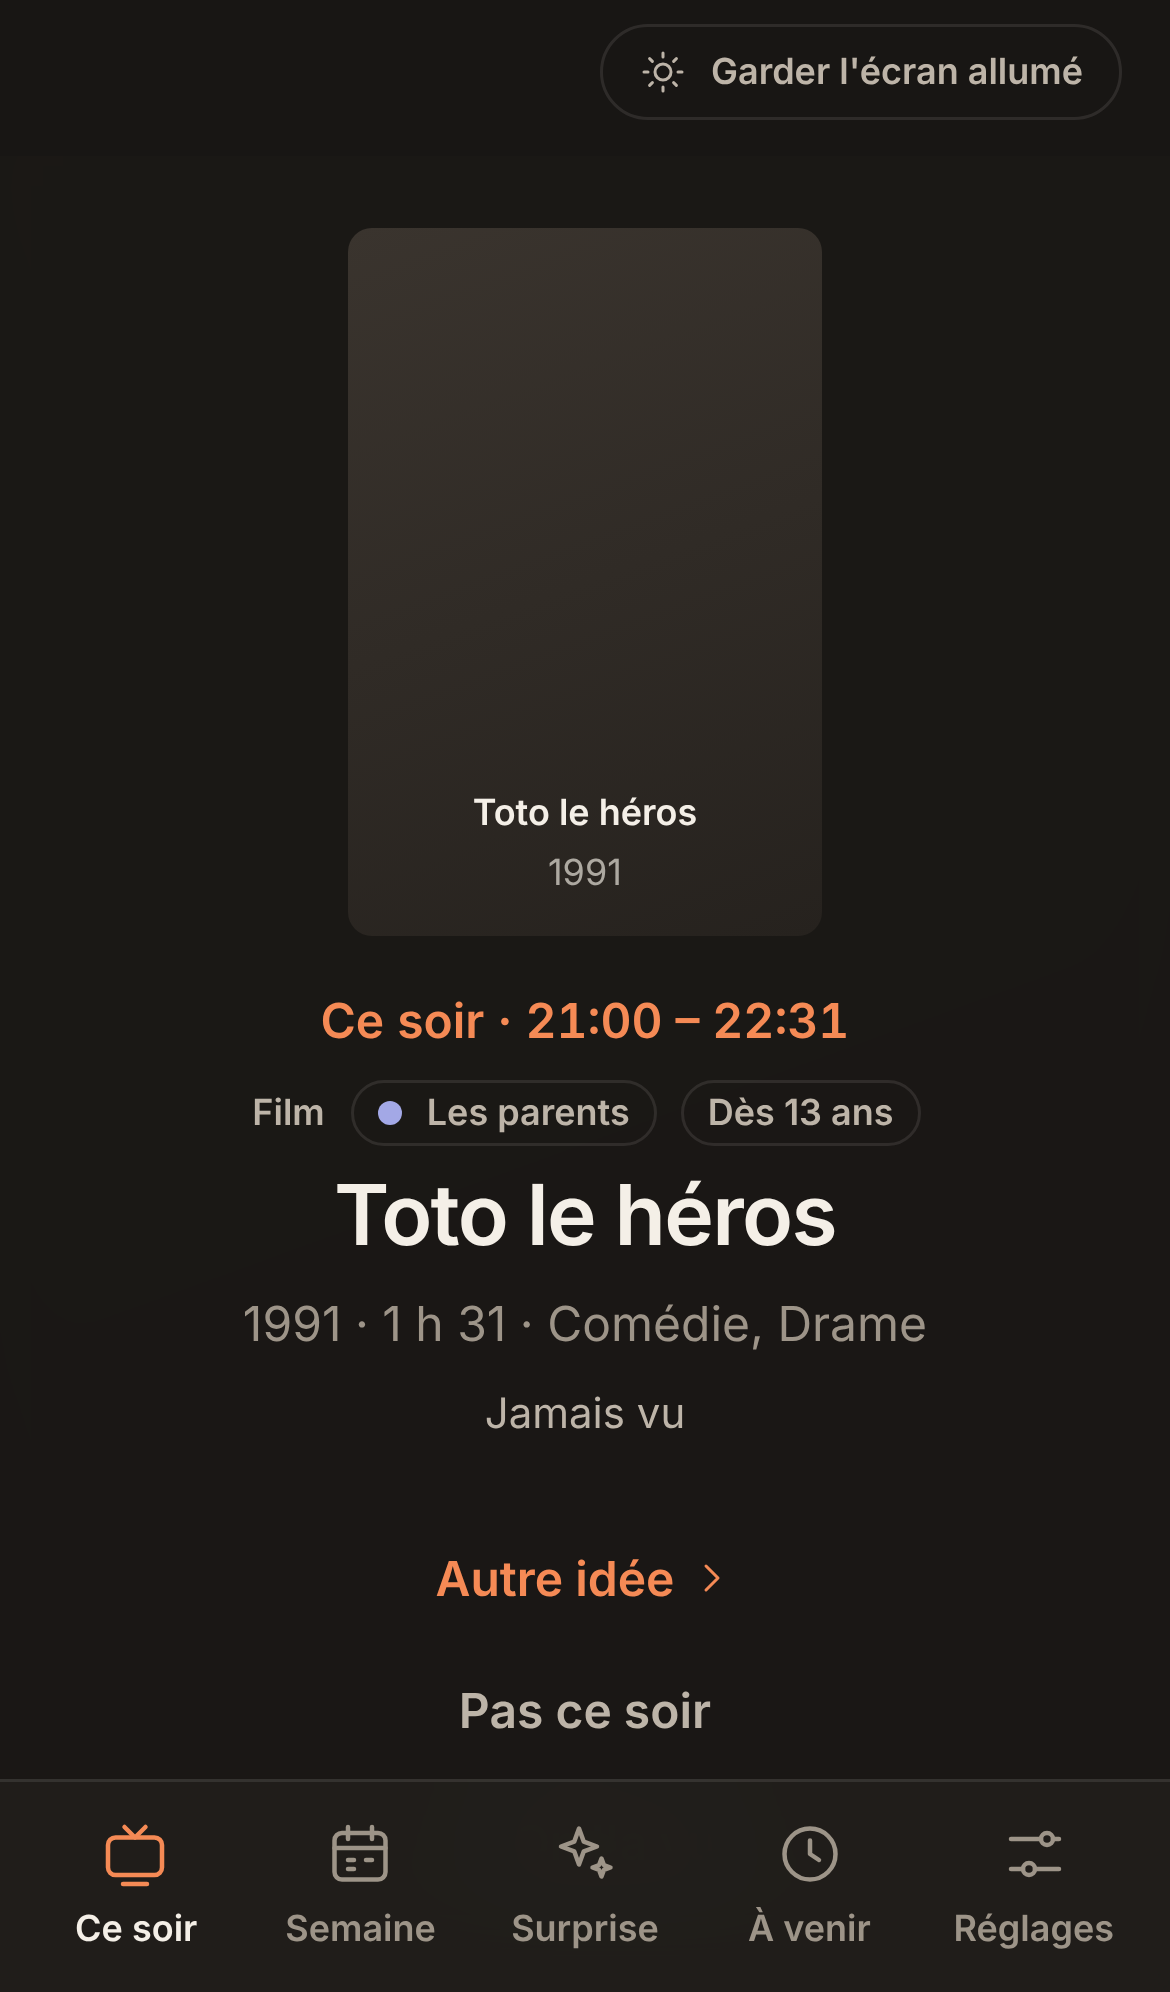
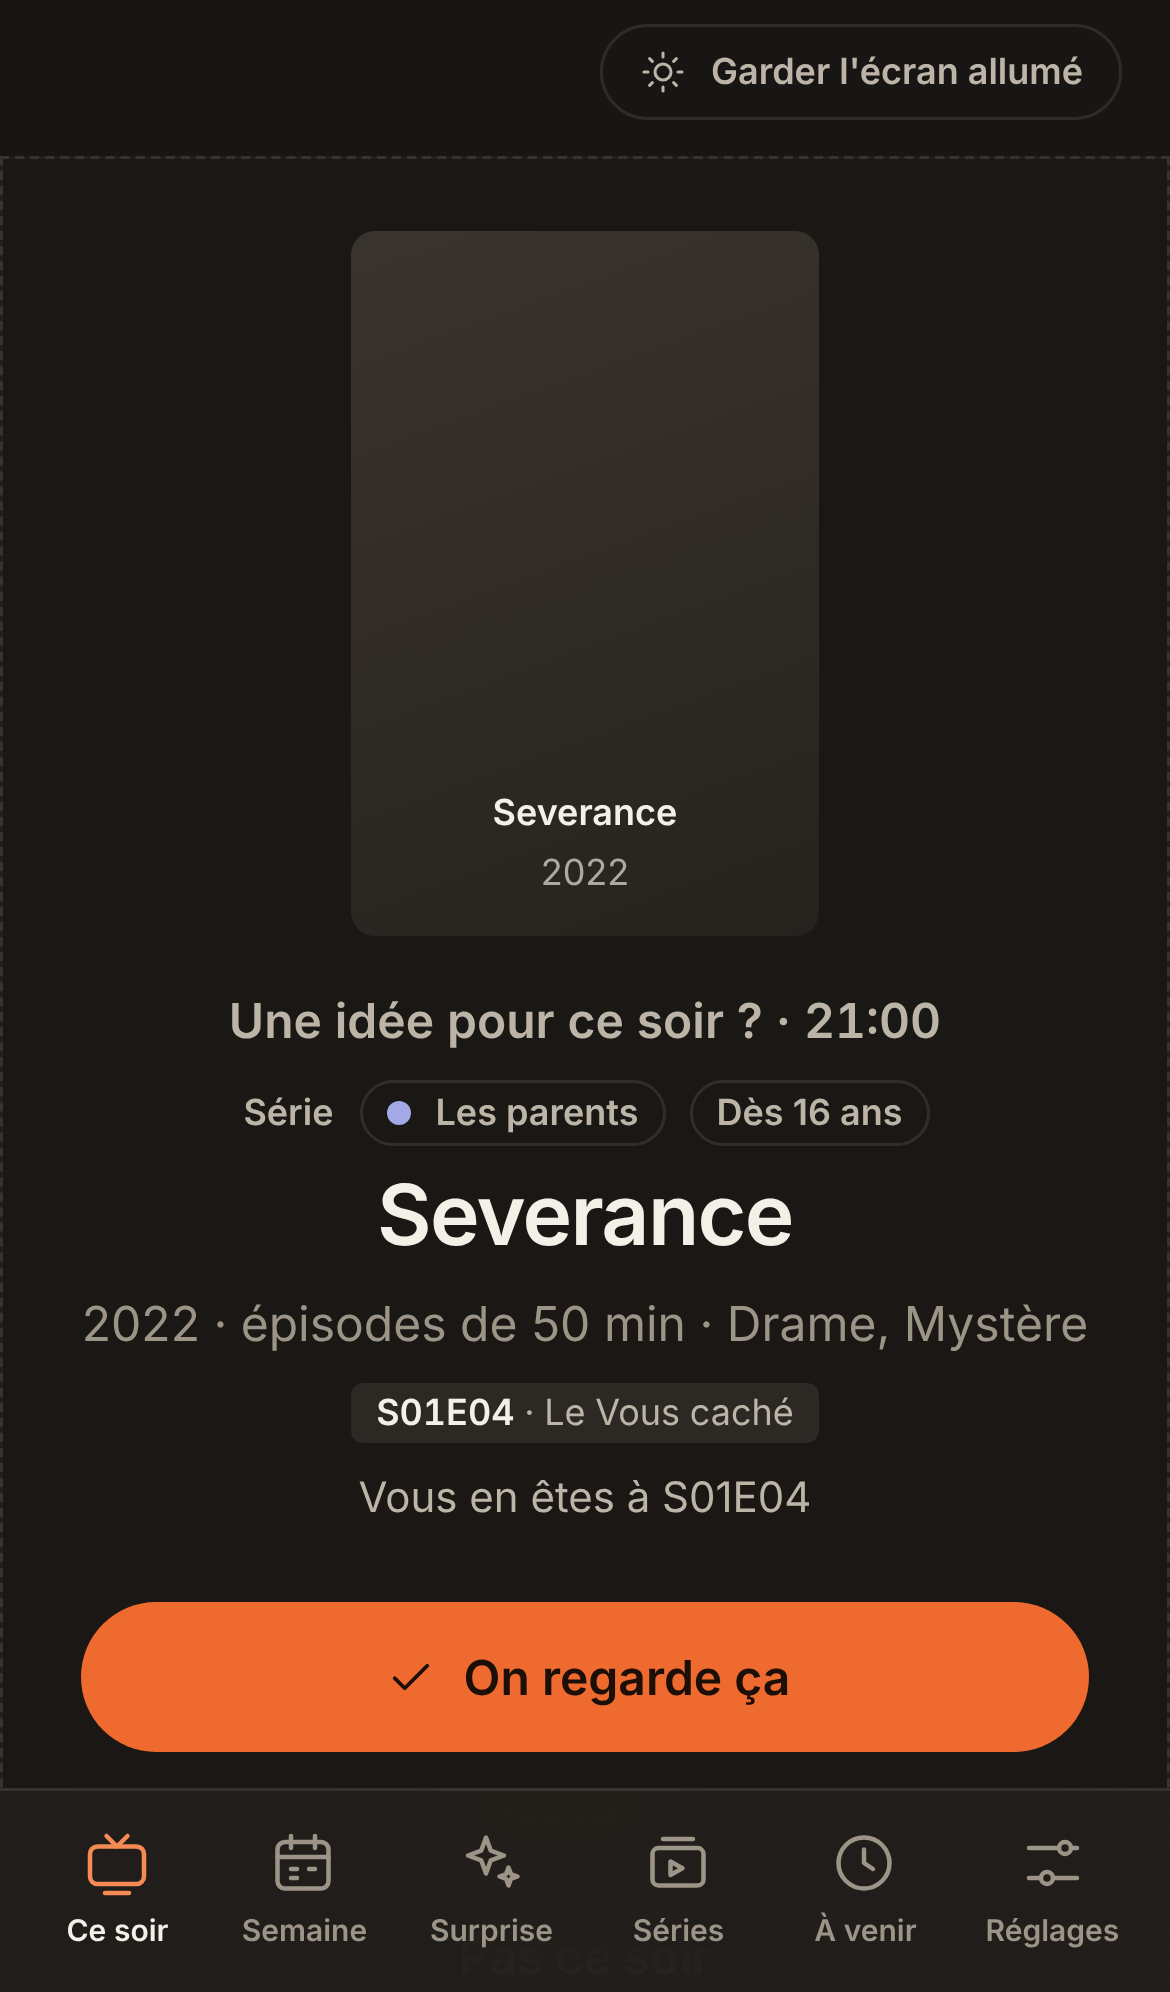
Fix the idea card border, refresh README screenshots
- "Idée" cards had a thick dashed border in the text colour (no width or
  colour was set); it is now a thin dashed line in the border colour.
- README screenshots retaken with the current interface (Séries menu,
  idea cards, "On regarde ça").

Claude-Session: https://claude.ai/code/session_012RJfRPdJkQzkP3MGa3wcvf

diff --git a/app/static/style.css b/app/static/style.css
@@ -805,7 +805,7 @@ a.mini { text-decoration: none; }
 @media (max-width: 768px) { .alt-list { grid-template-columns: 1fr; } }
 
 /* ---------- Idée / confirmé ---------- */
-.prog.idea { background: transparent; border-style: dashed; box-shadow: none; }
+.prog.idea { background: transparent; box-shadow: none; outline: 1px dashed var(--line); outline-offset: -1px; }
 .prog.idea h3 { color: var(--text-2); font-weight: 600; }
 .prog.idea .cover { opacity: .85; }
 .badge.idea-tag { background: transparent; border: 1px dashed var(--line); color: var(--text-2); }
